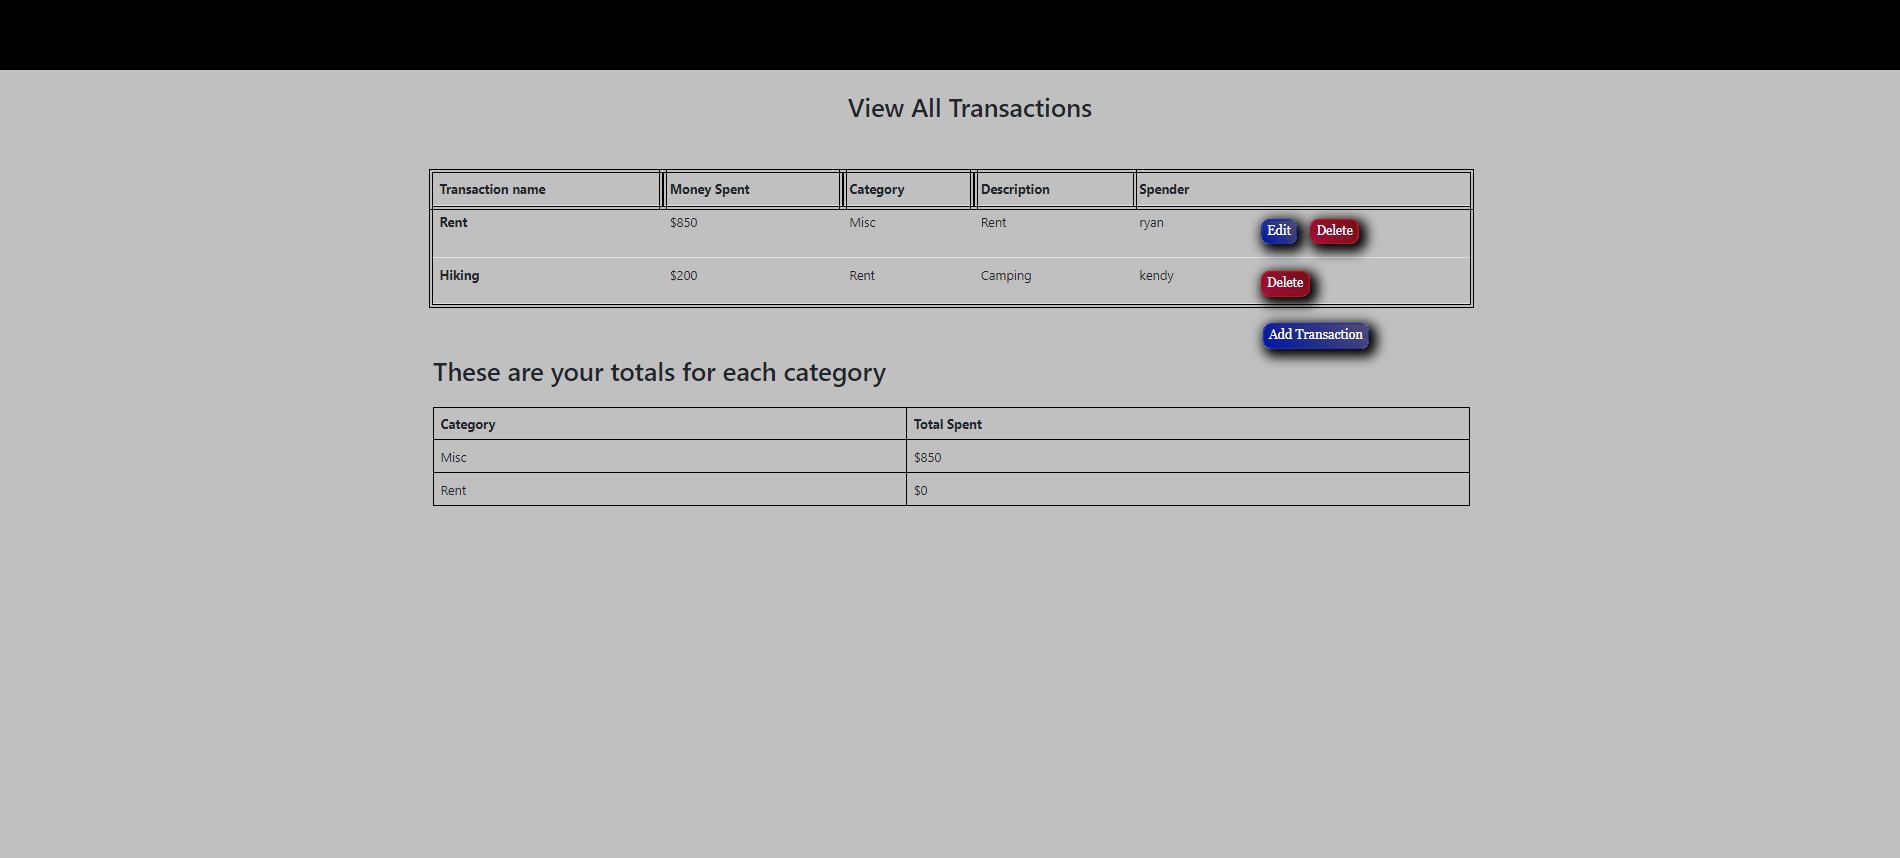
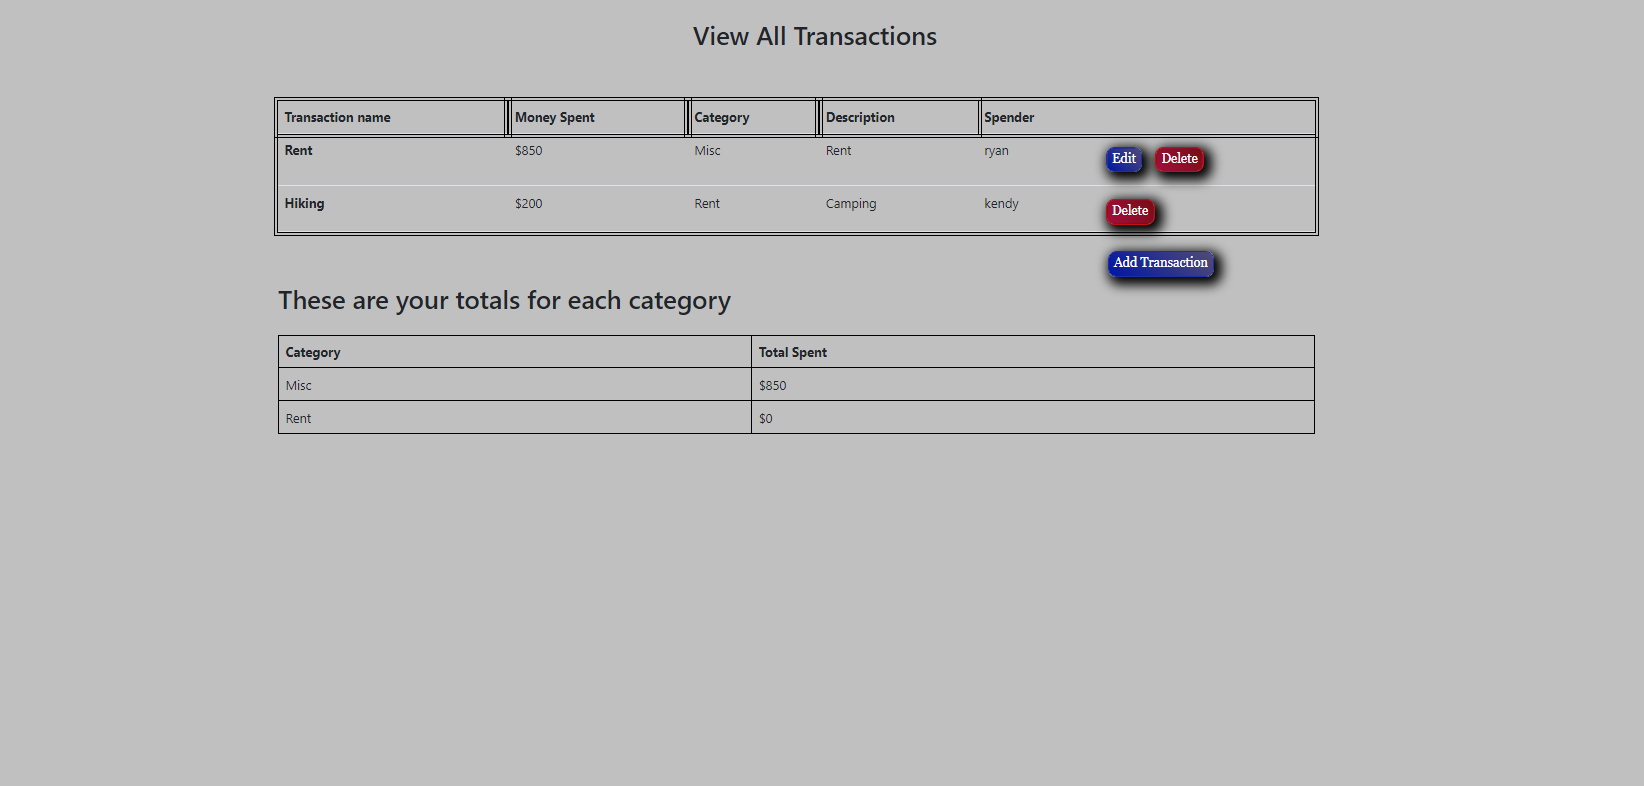
Changed styling

Changed region(s): [[0.1551, 0.1221, 0.8066, 0.5802], [0.0, 0.0, 1.0, 0.0916], [0.1551, 0.4885, 0.1861, 0.5496]]

diff --git a/budget-controller-client/budget-controller/src/Dashboard/BudgetOwnerDashboard.js b/budget-controller-client/budget-controller/src/Dashboard/BudgetOwnerDashboard.js
@@ -91,28 +91,28 @@ function BudgetOwnerDashboard(){
         })
         
     }, [])
-    function displayLimitMessage(){
-        console.log("click")
-        console.log(budgetCategoriesTotals)
-        console.log(budgetTransactionTotals)
-        for(let i =0; i < budgetCategoriesTotals.length; i++){
-            for(let k=0; k<budgetTransactionTotals.length;k++){
-                if(budgetTransactionTotals[k].name === budgetCategoriesTotals[i].categoryName){
-                    if(budgetCategoriesTotals[i].total - budgetTransactionTotals[k].value > budgetCategoriesTotals[i].higherLimit){
-                        setLimitMessage("You still have more to spend on " + budgetCategoriesTotals[i].name)
-                        console.log("You still have more to spend on " + budgetCategoriesTotals[i].name)
-                    }
-                    else if(budgetCategoriesTotals[i].total - budgetTransactionTotals[k].value < budgetCategoriesTotals[i].lowerLimit){
-                        setLimitMessage("You have overspent on " + budgetCategoriesTotals[i].name)
-                        console.log("You have overspent on " + budgetCategoriesTotals[i].name)
-                    }
-                    else{
-                        console.log("rip")
-                    }
-                }
-            }
-        }
-    }
+    // function displayLimitMessage(){
+    //     console.log("click")
+    //     console.log(budgetCategoriesTotals)
+    //     console.log(budgetTransactionTotals)
+    //     for(let i =0; i < budgetCategoriesTotals.length; i++){
+    //         for(let k=0; k<budgetTransactionTotals.length;k++){
+    //             if(budgetTransactionTotals[k].name === budgetCategoriesTotals[i].categoryName){
+    //                 if(budgetCategoriesTotals[i].total - budgetTransactionTotals[k].value > budgetCategoriesTotals[i].higherLimit){
+    //                     setLimitMessage("You still have more to spend on " + budgetCategoriesTotals[i].name)
+    //                     console.log("You still have more to spend on " + budgetCategoriesTotals[i].name)
+    //                 }
+    //                 else if(budgetCategoriesTotals[i].total - budgetTransactionTotals[k].value < budgetCategoriesTotals[i].lowerLimit){
+    //                     setLimitMessage("You have overspent on " + budgetCategoriesTotals[i].name)
+    //                     console.log("You have overspent on " + budgetCategoriesTotals[i].name)
+    //                 }
+    //                 else{
+    //                     console.log("rip")
+    //                 }
+    //             }
+    //         }
+    //     }
+    // }
     return(
         <div className="container">
             
@@ -120,7 +120,8 @@ function BudgetOwnerDashboard(){
                   
                 <div> 
                     <h2 >My Budget</h2>
-                    { budgetCategories ?
+                    
+                    { budgetCategories ? 
                     <Link to={Directories.EDITBUDGET}>
                         <PieChart width={1010} height={410} >
                         <Pie data={budgetCategoriesTotals} cx={120} cy={200} innerRadius={60} outerRadius={80} fill="#8884d8" paddingAngle={5} dataKey="total"

diff --git a/budget-controller-client/budget-controller/src/Navbar/Navbar.css b/budget-controller-client/budget-controller/src/Navbar/Navbar.css
@@ -1,27 +1,25 @@
 .myNav{
     padding-top: 1%;
-    background: #2442FF;
-background: -moz-linear-gradient(45deg, #3B58B2 0%, #2442FF 100%);
-background: -webkit-linear-gradient(45deg, #3B58B2 0%, #2442FF 100%);
-background: linear-gradient(45deg, #3B58B2 0%, #2442FF 100%);
+    background: #c0def0;
+
 
 }
 
 .homeNav{
-    font-size: 32px;
+    font-size: 24px;
     display: inline-block;
     margin-left: 5%;
 }
 .loginNav{
-    font-size: 32px;
+    font-size: 24px;
     display: inline-block;
-    margin-left: 30%;
+    margin-left: 20%;
     vertical-align: top;
 }
 .contactNav{
-    font-size: 32px;
+    font-size: 24px;
     display: inline-block;
-    margin-left: 15%;
+    margin-left: 20%;
 }
 .homeLink{
     color:black;
@@ -29,25 +27,20 @@ background: linear-gradient(45deg, #3B58B2 0%, #2442FF 100%);
     display: inline-block;
 }
 .title{
-    font-size: 32px;
+    font-size: 24px;
     height: 3em;
     padding-top: 1%;
     padding-left: 5%;
     margin-top: 1em;
-    background: #000000;
-background: -moz-linear-gradient(45deg, #000000 0%, #000000 100%);
-background: -webkit-linear-gradient(45deg, #000000 0%, #000000 100%);
-background: linear-gradient(45deg, #000000 0%, #000000 100%);
-color: azure;
+    background: #280546;
+
 }
 .pageHeader{
-    color: black;
+    color: white;
 }
 .navbarTop{
-    background: #000000;
-    background: -moz-linear-gradient(45deg, #000000 0%, #000000 100%);
-    background: -webkit-linear-gradient(45deg, #000000 0%, #000000 100%);
-    background: linear-gradient(45deg, #000000 0%, #000000 100%);
+    background: #280546;
+    
 }
 .logoutButton{
     display: inline-block;
@@ -55,15 +48,15 @@ color: azure;
 }
 .addNav { 
     display: inline-block;
-    font-size: 32px;
-    margin-left: 15%;
+    font-size: 24px;
+    margin-left: 20%;
 }
 .homeLink:hover{
     color: red;
 }
 .navCancelButton{
     
-    margin-right: 10%;
+    
     color: rgb(255, 255, 255); 
     font-size: 16px; 
     line-height: 16px; 
@@ -76,7 +69,10 @@ color: azure;
      font-variant: normal; 
      text-transform: none; 
      background-image: linear-gradient(45deg, rgb(164, 14, 59) 0%, rgb(117, 14, 22) 100%); 
-     box-shadow: rgb(0, 0, 0) 5px 5px 15px 5px; 
+     box-shadow: rgb(0, 0, 0) 1px 1px 2px 1px; 
      border: 2px solid rgb(194, 16, 16); 
      display: inline-block;
+    }
+    .membersNav{
+
     }

diff --git a/budget-controller-client/budget-controller/src/Budget/EditBudget.js b/budget-controller-client/budget-controller/src/Budget/EditBudget.js
@@ -13,7 +13,7 @@ function EditBudget(){
 
     const [budget, setBudget]=useState(null);
     const [categories, setCategories] = useState([]);
-
+    const [categoryContainer, setCategoryContainer] = useState(false);
     const [errors, setErrors] = useState([]);
 
     const history = useHistory();
@@ -103,17 +103,25 @@ function EditBudget(){
         const budgetCopy = {budgetId : budget.budgetId, budgetName: budget.budgetName, balance : budget.balance, categories : categoriesCopy};
         setBudget(budgetCopy)
     }
-    function removeCategory(category){
-        console.log("clock")
-        const categoriesCopy = [...categories]
-        for(let i = 0; i < categoriesCopy.length; i++){
-            if(categoriesCopy[i].categoryId === category.categoryId){
-                categoriesCopy.splice(i,1);
-                console.log(categoriesCopy);
-            }
-        }
-    }
-
+    // function removeCategory(category){
+    //     console.log("clock")
+    //     const categoriesCopy = [...categories]
+    //     for(let i = 0; i < categoriesCopy.length; i++){
+    //         if(categoriesCopy[i].categoryId === category.categoryId){
+    //             categoriesCopy.splice(i,1);
+    //             console.log(categoriesCopy);
+    //         }
+    //     }
+    // }
+//     function categoriesChangeHandler(incomingCategories){
+//         const categoriesCopy = [...incomingCategories];
+       
+//         const budgetCopy = {balance : budget.balance, categories : categoriesCopy};
+//         setBudget(budgetCopy)
+//     }
+// function addCategoryContainer(){
+//     setCategoryContainer(true);
+// }
 
     return(
        
@@ -139,7 +147,8 @@ function EditBudget(){
                     <div id="balanceHelp" className="form-text">What balance do you want to start with?</div>
 
                 {categories ? categories.map( c => <CategoryForm category={c}  onCategoryChange={categoriesChangeHandler} /> ) : null}
-     
+                {/* <button type="button" onClick={addCategoryContainer}> + </button>
+                    {categoryContainer ? categoryContainer === true ? <AddCategoryContainer onCategoriesChange={categoriesChangeHandler} /> : null : null} */}
                 <button type="submit" className="budgetSubmitButton mySubmitButton">Submit</button>
             </form>
         </div>

diff --git a/budget-controller-client/budget-controller/src/Budget/CategoryForm.js b/budget-controller-client/budget-controller/src/Budget/CategoryForm.js
@@ -48,7 +48,7 @@ function CategoryForm({ onCategoryChange , category}){
                     className={"form-control"}/>
                     <div id="categoryHelp" className="form-text">How much of your budget do you want this category to use?</div>
               
-                <FormInput 
+                 <FormInput 
                     inputType={"number"} 
                     identifier={"higherLimit"} 
                     labelText={"Higher Limit"} 
@@ -66,7 +66,7 @@ function CategoryForm({ onCategoryChange , category}){
                     labelClass={"inputLabel"}
                     onChangeHandler={inputChangeHandler}
                     className={"form-control"}/>
-                    <div id="lowerLimitHelp" className="form-text">We will alert you if you go lower than this!</div>
+                    <div id="lowerLimitHelp" className="form-text">We will alert you if you go lower than this!</div> 
                
                 {/* <FormInput 
                     inputType={"checkbox"} 

diff --git a/budget-controller-client/budget-controller/src/Budget/AddCategoryContainer.js b/budget-controller-client/budget-controller/src/Budget/AddCategoryContainer.js
@@ -4,7 +4,7 @@ import CategoryForm from './CategoryForm';
 import "./Budget.css"
 
 function AddCategoryContainer({onCategoriesChange}){
-    const startingCategories = [{categoryId : 0, categoryName : "Savings", categoryPercent : 100, higherLimit : 1000, lowerLimit : 500, goal : false }];
+    const startingCategories = [{categoryId : 0, categoryName : "Savings", categoryPercent : 100, goal : false }];
     const [categories, setCategories] = useState([startingCategories]);
 
     function categoryChangeHandler(category){
@@ -18,7 +18,7 @@ function AddCategoryContainer({onCategoriesChange}){
 
     function addCategory(){
         const categoriesCopy = [...categories];
-        categoriesCopy.push({categoryId : categoriesCopy.length , categoryName : "" , categoryPercent : 0, higherLimit : 100, lowerLimit : 0, goal : false});
+        categoriesCopy.push({categoryId : categoriesCopy.length , categoryName : "" , categoryPercent : 0, goal : false});
         setCategories(categoriesCopy);
     }
 

diff --git a/budget-controller-client/budget-controller/src/Budget/Budget.css b/budget-controller-client/budget-controller/src/Budget/Budget.css
@@ -52,7 +52,7 @@
      font-variant: normal; 
      text-transform: none; 
      background-image: linear-gradient(45deg, rgb(164, 14, 59) 0%, rgb(117, 14, 22) 100%); 
-     box-shadow: rgb(0, 0, 0) 5px 5px 15px 5px; 
+     box-shadow: rgb(0, 0, 0) 1px 1px 2px 1px; 
      border: 2px solid rgb(194, 16, 16); 
      display: inline-block;
     }
@@ -79,7 +79,7 @@
             font-variant: normal; 
             text-transform: none; 
             background-image: linear-gradient(45deg, rgb(0, 22, 164) 0%, rgb(82, 75, 117) 100%); 
-            box-shadow: rgb(0, 0, 0) 5px 5px 15px 5px; 
+            box-shadow: rgb(0, 0, 0) 1px 1px 2px 1px; 
             border: 2px solid rgb(28, 48, 164); 
             display: inline-block;
         }

diff --git a/budget-controller-client/budget-controller/src/Transaction/Transaction.css b/budget-controller-client/budget-controller/src/Transaction/Transaction.css
@@ -25,7 +25,7 @@
         font-variant: normal; 
         text-transform: none; 
         background-image: linear-gradient(45deg, rgb(0, 22, 164) 0%, rgb(82, 75, 117) 100%); 
-        box-shadow: rgb(0, 0, 0) 5px 5px 15px 5px; 
+        box-shadow: rgb(0, 0, 0) 1px 1px 2px 1px; 
         border: 2px solid rgb(28, 48, 164); 
         display: inline-block;
     }
@@ -52,7 +52,7 @@
          font-variant: normal; 
          text-transform: none; 
          background-image: linear-gradient(45deg, rgb(164, 14, 59) 0%, rgb(117, 14, 22) 100%); 
-         box-shadow: rgb(0, 0, 0) 5px 5px 15px 5px; 
+         box-shadow: rgb(0, 0, 0) 1px 1px 2px 1px; 
          border: 2px solid rgb(194, 16, 16); 
          display: inline-block;
         }

diff --git a/budget-controller-client/budget-controller/src/Authentication/Authentication.css b/budget-controller-client/budget-controller/src/Authentication/Authentication.css
@@ -22,7 +22,7 @@
         font-variant: normal; 
         text-transform: none; 
         background-image: linear-gradient(45deg, rgb(0, 22, 164) 0%, rgb(82, 75, 117) 100%); 
-        box-shadow: rgb(0, 0, 0) 5px 5px 15px 5px; 
+        box-shadow: rgb(0, 0, 0) 1px 1px 2px 1px; 
         border: 2px solid rgb(28, 48, 164); 
         display: inline-block;
     }
@@ -50,7 +50,7 @@
      font-variant: normal; 
      text-transform: none; 
      background-image: linear-gradient(45deg, rgb(164, 14, 59) 0%, rgb(117, 14, 22) 100%); 
-     box-shadow: rgb(0, 0, 0) 5px 5px 15px 5px; 
+     box-shadow: rgb(0, 0, 0) 1px 1px 2px 1px; 
      border: 2px solid rgb(194, 16, 16); 
      display: inline-block;
     }

diff --git a/budget-controller-client/budget-controller/src/Home.js b/budget-controller-client/budget-controller/src/Home.js
@@ -7,12 +7,12 @@ import './Home.css'
 function Home(){
     return(
         <div>
-            <h1 className="homeHeader">Home</h1>
+            
             <h2 className="homeHeader">Check out these features!</h2>
             <div id="carouselExampleControls" className="carousel slide" data-bs-ride="carousel">
   <div className="carousel-inner">
     <div className="carousel-item active">
-      <img src={shibe} className="carouselImage" alt="..."/>
+      <img src={shibe} className="myCarouselImage" alt="..."/>
     </div>
     <div className="carousel-item">
       <img src={shibe2} className="carouselImage" alt="..."/>

diff --git a/budget-controller-client/budget-controller/src/App.js b/budget-controller-client/budget-controller/src/App.js
@@ -10,7 +10,7 @@ import CreateBudget from './Budget/CreateBudget';
 import jwtDecode from "jwt-decode";
 import AuthContext from "./AuthContext";
 import EditBudget from "./Budget/EditBudget";
-import BudgetMemberDashboard from './Dashboard/BudgetMemberDashboard';
+import BudgetMemberDashboard from './Dashboard/BudgetMemberDashBoard';
 import BudgetMemberView from "./Transaction/BudgetMemberView";
 import BudgetOwnerView from "./Transaction/BudgetOwnerView";
 import BudgetOwnerDashboard from './Dashboard/BudgetOwnerDashboard';

diff --git a/budget-controller-client/budget-controller/src/Navbar/Navbar.js b/budget-controller-client/budget-controller/src/Navbar/Navbar.js
@@ -89,12 +89,15 @@ function Navbar(){
                     null) : null}
                 
                 </div >
-                        </div>
+            </div>
+                
+                
+                       
                 <div className="contactNav">
                     <Link to ={Directories.CONTACT}  className="homeLink" >Contact</Link>
+               
                 </div>
-
-
+           
 
                 <div className="loginNav">
                     {

diff --git a/budget-controller-client/budget-controller/src/AddMembers/Member.css b/budget-controller-client/budget-controller/src/AddMembers/Member.css
@@ -15,7 +15,7 @@
         font-variant: normal; 
         text-transform: none; 
         background-image: linear-gradient(45deg, rgb(0, 22, 164) 0%, rgb(82, 75, 117) 100%); 
-        box-shadow: rgb(0, 0, 0) 5px 5px 15px 5px; 
+        box-shadow: rgb(0, 0, 0) 1px 1px 2px 1px; 
         border: 2px solid rgb(28, 48, 164); 
         display: inline-block;
     }
